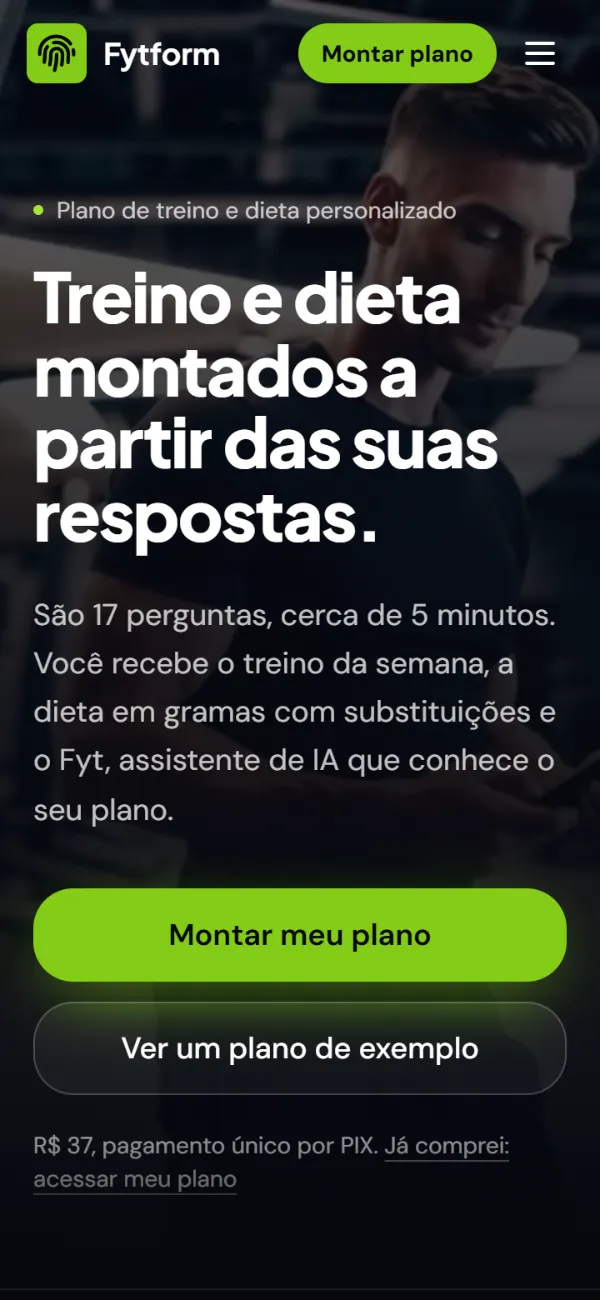
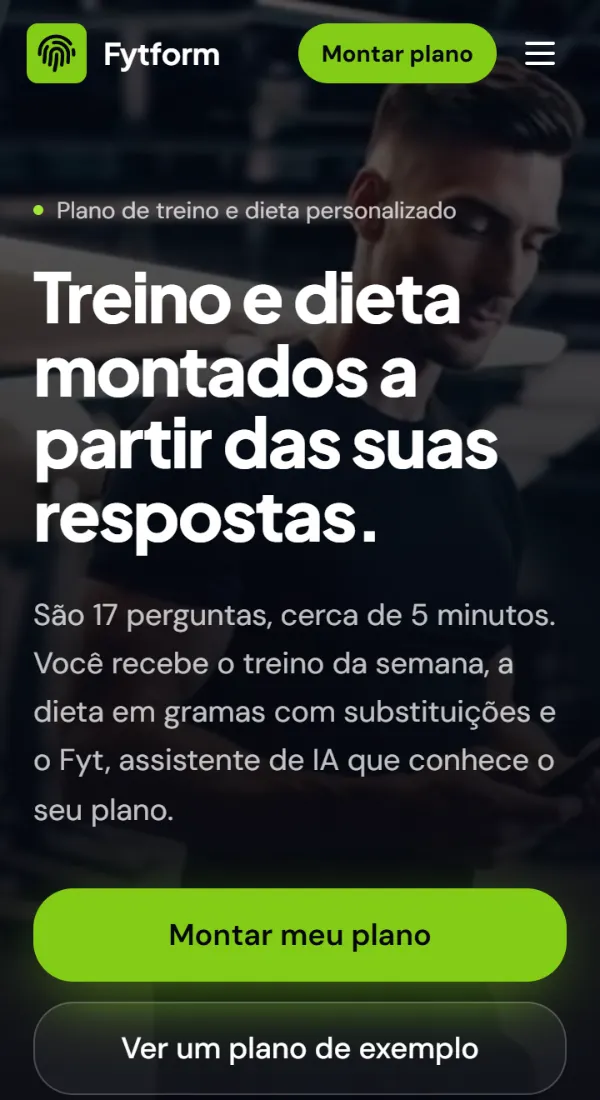
fix: v3 sem preço do Fytform e sem escudos no print do H2HScout
- Prints de celular cortados acima de qualquer linha com R$, PIX ou grátis.
- Painel do H2HScout sem as linhas com imagem (escudos), com trava no script.
- Card do Fytform na v3 sem preço; destaque trocado por "17 perguntas, cerca de 5 minutos", do site do Fytform.

diff --git a/src/index-v3.html b/src/index-v3.html
@@ -70,7 +70,7 @@
         </ul>
         <a class="btn btn-prod" href="https://iqnorth.com/" rel="noopener">Fazer o teste</a>
       </div>
-      <div class="palco"><div class="fone"><img src="/assets/v3/prints/iqnorth-cel-300.webp" srcset="/assets/v3/prints/iqnorth-cel-300.webp 300w, /assets/v3/prints/iqnorth-cel-600.webp 600w" sizes="260px" width="300" height="650" alt="Tela inicial do IQNorth no celular: “Descubra como você raciocina”." loading="lazy" decoding="async"></div></div>
+      <div class="palco"><div class="fone"><img src="/assets/v3/prints/iqnorth-cel-300.webp" srcset="/assets/v3/prints/iqnorth-cel-300.webp 300w, /assets/v3/prints/iqnorth-cel-600.webp 600w" sizes="260px" width="300" height="637" alt="Tela inicial do IQNorth no celular: “Descubra como você raciocina”." loading="lazy" decoding="async"></div></div>
     </article>
 
     <article class="prod p-fyt" id="fytform" aria-labelledby="h-fyt">
@@ -78,15 +78,15 @@
         <div class="prod-cab"><img src="/assets/v3/logos/fytform.svg" width="56" height="56" alt=""><div><h3 id="h-fyt">Fytform</h3><a class="dom" href="https://fytform.com/" rel="noopener">fytform.com</a></div></div>
         <p class="estado">No ar</p>
         <p class="prod-frase">Treino e dieta feitos para você, em minutos.</p>
-        <p class="prod-desc">Responda um questionário sobre seu corpo, rotina e objetivo e receba seu plano de treino e de dieta no celular. R$ 37, pagamento único por PIX.</p>
+        <p class="prod-desc">Responda um questionário sobre seu corpo, rotina e objetivo e receba seu plano de treino e de dieta no celular.</p>
         <ul class="fatos">
           <li>Exercícios, séries, refeições, calorias e macros</li>
           <li>Substituição de alimentos por equivalentes</li>
-          <li>R$ 37, pagamento único por PIX</li>
+          <li>17 perguntas, cerca de 5 minutos</li>
         </ul>
         <a class="btn btn-prod" href="https://fytform.com/" rel="noopener">Montar meu plano</a>
       </div>
-      <div class="palco"><div class="fone"><img src="/assets/v3/prints/fytform-cel-300.webp" srcset="/assets/v3/prints/fytform-cel-300.webp 300w, /assets/v3/prints/fytform-cel-600.webp 600w" sizes="260px" width="300" height="650" alt="Tela inicial do Fytform no celular: “Treino e dieta montados a partir das suas respostas”." loading="lazy" decoding="async"></div></div>
+      <div class="palco"><div class="fone"><img src="/assets/v3/prints/fytform-cel-300.webp" srcset="/assets/v3/prints/fytform-cel-300.webp 300w, /assets/v3/prints/fytform-cel-600.webp 600w" sizes="260px" width="300" height="550" alt="Tela inicial do Fytform no celular: “Treino e dieta montados a partir das suas respostas”." loading="lazy" decoding="async"></div></div>
     </article>
 
     <article class="prod p-h2h" id="h2hscout" aria-labelledby="h-h2h">
@@ -102,7 +102,7 @@
         </ul>
         <a class="btn btn-prod" href="https://h2hscout.com/" rel="noopener">Conhecer o H2HScout</a>
       </div>
-      <div class="palco"><div class="painel"><img src="/assets/v3/prints/h2hscout-painel-420.webp" srcset="/assets/v3/prints/h2hscout-painel-420.webp 420w, /assets/v3/prints/h2hscout-painel-840.webp 840w" sizes="(max-width:900px) 90vw, 440px" width="420" height="390" alt="Exemplo de leitura do H2HScout: o ataque do Internacional na rodada 26, com gols e chances por jogo." loading="lazy" decoding="async"></div></div>
+      <div class="palco"><div class="painel"><img src="/assets/v3/prints/h2hscout-painel-420.webp" srcset="/assets/v3/prints/h2hscout-painel-420.webp 420w, /assets/v3/prints/h2hscout-painel-840.webp 840w" sizes="(max-width:900px) 90vw, 440px" width="420" height="261" alt="Exemplo de leitura do H2HScout na rodada 26: gols e chances por jogo de um ataque." loading="lazy" decoding="async"></div></div>
     </article>
 
     <article class="grim" id="grimoire" aria-labelledby="h-grim">

diff --git a/src/css/v3.css b/src/css/v3.css
@@ -130,9 +130,9 @@ ul{padding:0;list-style:none}
 .btn-prod:hover{filter:brightness(1.08)}
 .palco{display:grid;place-items:center;background:var(--palco);border-radius:14px;padding:clamp(20px,3vw,36px);min-height:100%}
 .fone{width:min(260px,70%);border-radius:30px;overflow:hidden;border:7px solid #05070c;background:#05070c;box-shadow:0 30px 50px -24px rgba(0,0,0,.7)}
-.fone img{width:100%;height:auto;aspect-ratio:300/650}
+.fone img{width:100%;height:auto}
 .painel{width:min(440px,100%);border-radius:12px;overflow:hidden;box-shadow:0 30px 50px -24px rgba(0,0,0,.7),0 0 0 1px rgba(255,255,255,.08)}
-.painel img{width:100%;height:auto;aspect-ratio:420/390}
+.painel img{width:100%;height:auto}
 @media (max-width:900px){.prod{grid-template-columns:1fr}.palco{order:-1}.fone{width:min(220px,62%)}.btn-prod,.prod-txt .fatos+.btn-prod{margin-top:26px}}
 .p-iq{--bg:#14172e;--tom:#a29eff;--sobre-tom:#0e1024;--palco:linear-gradient(160deg,#2b27a0,#1a1d3d)}
 .p-fyt{--bg:#0f1712;--tom:#9be15d;--sobre-tom:#0b1a05;--palco:linear-gradient(160deg,#2e4a12,#16221a)}

diff --git a/worker/csp.js b/worker/csp.js
@@ -1,2 +1,2 @@
 // gerado por ferramentas/build.mjs
-export const CSP = "default-src 'none'; script-src 'sha256-l4ZR1+S8Y2Vt31tfDRwMHMqCyqheoJjpNGe4iP6IZv4=' 'sha256-MWn5GLtaUe7RhpHYzU49HePmOwWH28XorRxwlolKR9s='; style-src 'sha256-pPUi8gFvcSgk69zctTP96AeBcrHUAlnjBSuAwASd6LE=' 'sha256-hFw5vxKpvlVmE+56uqtn0DAsklv2aBGuL3AuRgBoulA='; img-src 'self' data:; font-src 'self'; connect-src 'self'; manifest-src 'self'; base-uri 'none'; form-action 'none'; frame-ancestors 'none'; upgrade-insecure-requests";
+export const CSP = "default-src 'none'; script-src 'sha256-l4ZR1+S8Y2Vt31tfDRwMHMqCyqheoJjpNGe4iP6IZv4=' 'sha256-MWn5GLtaUe7RhpHYzU49HePmOwWH28XorRxwlolKR9s='; style-src 'sha256-pPUi8gFvcSgk69zctTP96AeBcrHUAlnjBSuAwASd6LE=' 'sha256-VrsAf5mxWFXO3lowshYVS25n456z+tii7PSAVtdEuJs='; img-src 'self' data:; font-src 'self'; connect-src 'self'; manifest-src 'self'; base-uri 'none'; form-action 'none'; frame-ancestors 'none'; upgrade-insecure-requests";
